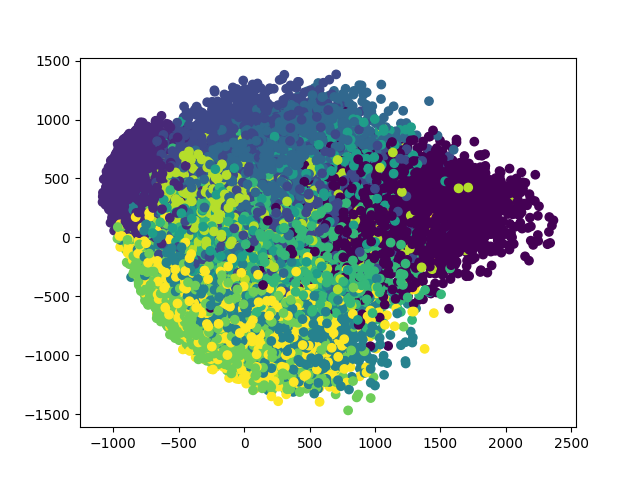
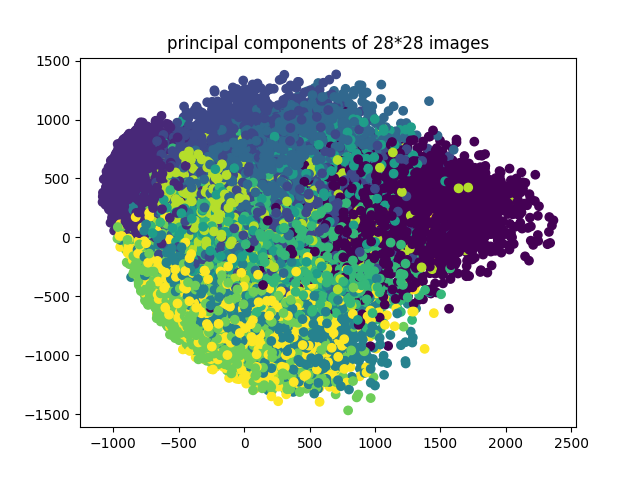
done pca

Changed region(s): [[0.25, 0.0625, 0.75, 0.125]]

diff --git a/pca/mnistpca.py b/pca/mnistpca.py
@@ -1,6 +1,9 @@
 import numpy as np
 import matplotlib.pyplot as plt
-from sklearn.decomposition import TruncatedSVD
+from sklearn.decomposition import TruncatedSVD, KernelPCA
+from sklearn.preprocessing import StandardScaler
+
+
 
 
 
@@ -76,13 +79,45 @@ X_centered = X - X_moy
 print(moy, np.shape(moy))
 print(X_centered[:,1])
 
+#PCA
 svd = TruncatedSVD(n_components=2, n_iter=10, random_state=5)
 U = svd.fit_transform(np.transpose(X_centered))
-Sigma = np.diag(svd.singular_values_)
-V = svd.components_
 
-
-print(U)
+print(svd.singular_values_)
 plt.scatter(U[:,0],U[:,1], c=labels)
+plt.title('principal components of 28*28 images')
 plt.savefig('pca_result.png')
 plt.close()
+
+
+svd3D = TruncatedSVD(n_components=3, n_iter=10, random_state=5)
+U = svd3D.fit_transform(np.transpose(X_centered))
+fig = plt.figure()
+ax = fig.add_subplot(projection='3d')
+ax.scatter(U[:,0],U[:,1],U[:,2], c=labels)
+plt.savefig('3D_pca_result')
+plt.close()
+
+
+#kernelPCA
+max_samples = 5000
+kpca = KernelPCA(n_components=9, kernel='rbf')
+data = np.transpose(X_centered[:,:max_samples])
+
+
+scaler = StandardScaler()
+X_std = scaler.fit_transform(data)
+print(np.shape(data), np.shape(X_std))
+
+U = kpca.fit_transform(X_std)
+print(np.shape(X_centered[:,:max_samples]), np.shape(U))
+
+plt.scatter(U[:,0],U[:,1], c=labels[:max_samples])
+plt.title('kernel principal components of 28*28 images')
+plt.savefig('k_pca_result.png')
+plt.close()
+print(kpca.eigenvalues_, np.sum(kpca.eigenvalues_), np.sum(kpca.eigenvalues_[:2]))
+
+
+
+
